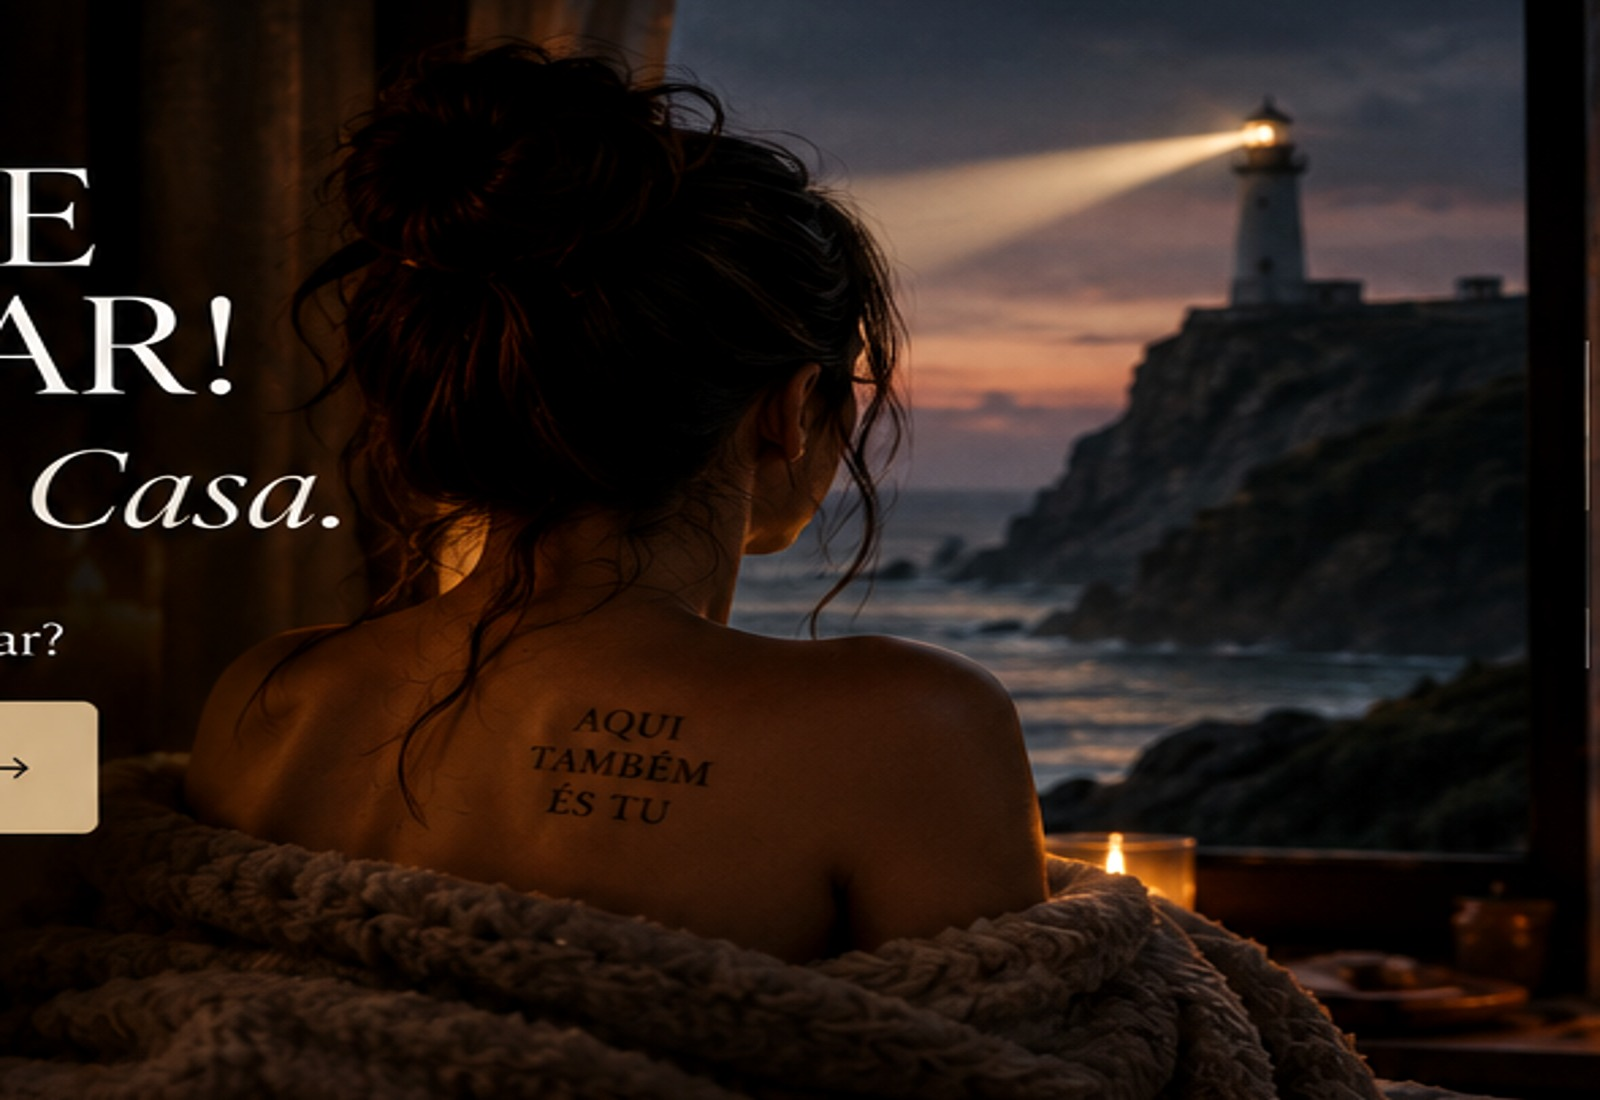
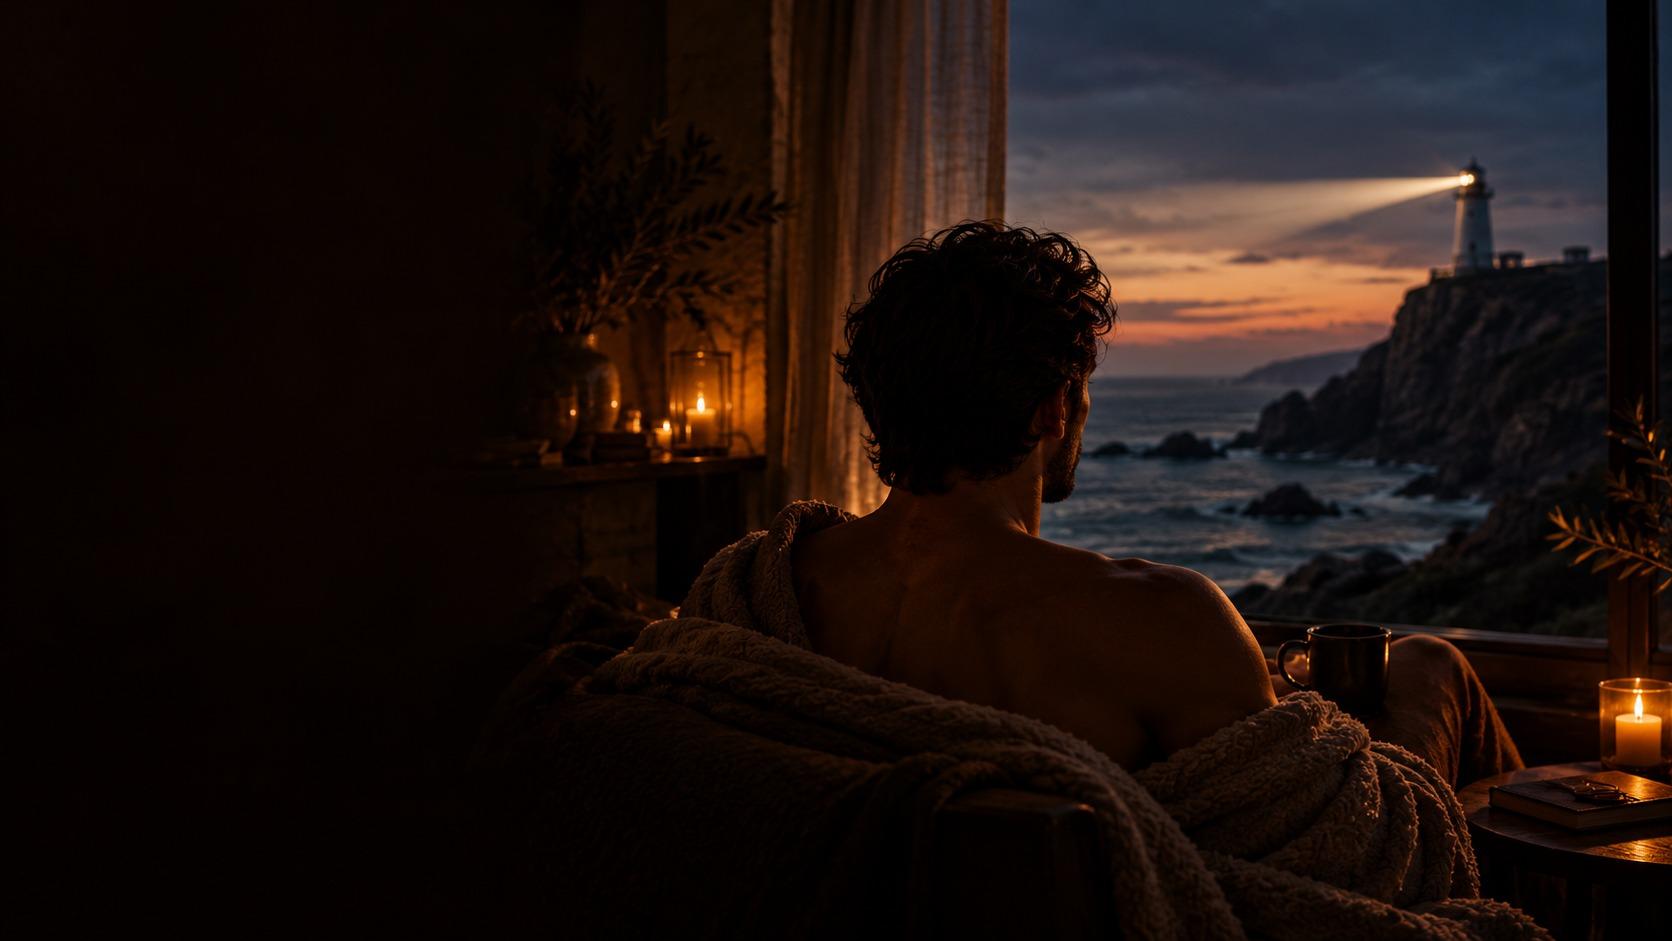
Add files via upload

diff --git a/styles.css b/styles.css
@@ -1542,70 +1542,121 @@ ul, ol {
   .transformacoes,.explorar,.joao,.profissionais,.fecho { padding-top: 5.5rem; padding-bottom: 5.5rem; }
 }
 
+
 /* ==========================================================
-   MAISON JF® — correção de sobreposição de imagens · 08/09/2026
+   MAISON JF® — acabamento final do hero e profissionais
    ========================================================== */
 
-/* HERO: a fotografia original contém lettering na margem esquerda.
-   Mostramos apenas a zona limpa (mulher + farol) e deixamos a área
-   esquerda escura para o texto HTML real respirar. */
+/* HERO — fotografia limpa, sem texto incorporado.
+   A zona esquerda fica reservada ao lettering HTML. */
 .hero__bg-image {
   background-color: #080808;
   background-image:
-    linear-gradient(90deg, #080808 0%, rgba(8,8,8,.96) 23%, rgba(8,8,8,.56) 46%, rgba(8,8,8,.12) 70%, rgba(8,8,8,.18) 100%),
+    linear-gradient(90deg,
+      rgba(8,8,8,.97) 0%,
+      rgba(8,8,8,.88) 24%,
+      rgba(8,8,8,.50) 43%,
+      rgba(8,8,8,.12) 67%,
+      rgba(8,8,8,.10) 100%),
     url('hero.jpg');
-  background-repeat: no-repeat, no-repeat;
-  background-size: 100% 100%, auto 100%;
-  background-position: center, right center;
-  filter: saturate(.82) contrast(1.04) brightness(.86);
+  background-repeat: no-repeat;
+  background-size: cover;
+  background-position: center;
+  filter: saturate(.88) contrast(1.03) brightness(.83);
 }
 
-/* O farol da fotografia já tem o seu próprio feixe. */
+/* A fotografia já inclui o farol; não duplicar o feixe em CSS. */
 .hero__beam { display: none; }
 
-/* Mantém o headline dentro da zona segura no desktop. */
+/* Lettering editorial: grande, mas controlado. */
 @media (min-width: 769px) {
-  .hero__content { max-width: 1440px; }
-  .hero__title { max-width: 52rem; }
-  .hero__title--primary { font-size: clamp(4.8rem, 8.2vw, 7.6rem); }
-  .hero__title--secondary { font-size: clamp(2.6rem, 4.4vw, 4rem); }
+  .hero__content {
+    max-width: 1440px;
+    padding-left: clamp(4.5rem, 5vw, 6rem);
+    padding-right: clamp(3rem, 5vw, 6rem);
+  }
+
+  .hero__title {
+    max-width: 46rem;
+    line-height: .90;
+  }
+
+  .hero__title--primary {
+    font-size: clamp(4.4rem, 6.8vw, 6.9rem);
+    letter-spacing: -.025em;
+  }
+
+  .hero__title--secondary {
+    font-size: clamp(2.35rem, 3.6vw, 3.65rem);
+    margin-top: .9rem;
+  }
+
+  .hero__question {
+    margin-top: 2.8rem;
+  }
 }
 
-/* FAROL: retirar a imagem “ambient”, que era uma captura do próprio
-   Farol e por isso criava cartões e textos fantasma por trás. */
+/* FAROL — sem fotografia com cartões/texto incorporados. */
 .farol {
   background-image:
-    radial-gradient(circle at 50% 20%, rgba(196,162,101,.055), transparent 34%),
+    radial-gradient(circle at 50% 18%, rgba(196,162,101,.055), transparent 34%),
     linear-gradient(180deg, #0b0a09 0%, #080808 45%, #0a0908 100%);
   background-size: auto;
   background-position: center;
 }
 
-/* PROFISSIONAIS: usar uma fotografia de ambiente verdadeira em vez
-   da captura do próprio site. O enquadramento corta o ícone embutido
-   na margem esquerda da imagem original. */
+/* PROFISSIONAIS — imagem editorial de espaço, sem pessoas. */
 .profissionais__visual-photo {
   background-image:
-    linear-gradient(rgba(10,8,6,.16), rgba(10,8,6,.34)),
-    url('espaco.jpg');
-  background-size: cover, 132% auto;
+    linear-gradient(rgba(10,8,6,.10), rgba(10,8,6,.28)),
+    url('profissionais.jpg');
+  background-size: cover;
   background-repeat: no-repeat;
-  background-position: center, 78% center;
+  background-position: center;
 }
 
-/* Um pouco menos de vazio nas secções finais, sem voltar a apertar o site. */
-.fecho { padding-top: clamp(6rem,8vw,8rem); padding-bottom: clamp(6rem,8vw,8rem); }
+/* Selo institucional mais discreto: credibilidade sem parecer rodapé jurídico. */
+.profissionais__credibilidade {
+  margin: 1.5rem 0 2rem;
+  padding-top: 1rem;
+  border-top: 1px solid rgba(196,162,101,.24);
+}
+.profissionais__credibilidade span {
+  font-size: 1.05rem;
+}
+.profissionais__credibilidade strong {
+  font-size: .62rem;
+  letter-spacing: .12em;
+  opacity: .86;
+}
+
+/* Menos vazio nas secções finais. */
+.fecho {
+  padding-top: clamp(5.5rem,7vw,7rem);
+  padding-bottom: clamp(5.5rem,7vw,7rem);
+}
 
 @media (max-width: 768px) {
   .hero__bg-image {
     background-image:
-      linear-gradient(180deg, rgba(8,8,8,.18) 0%, rgba(8,8,8,.26) 44%, rgba(8,8,8,.88) 100%),
+      linear-gradient(180deg,
+        rgba(8,8,8,.14) 0%,
+        rgba(8,8,8,.30) 46%,
+        rgba(8,8,8,.90) 100%),
       url('hero.jpg');
-    background-size: 100% 100%, auto 100%;
-    background-position: center, 73% center;
+    background-size: cover;
+    background-position: 63% center;
   }
+
+  .hero__title--primary {
+    font-size: clamp(3rem, 15vw, 4.9rem);
+  }
+
+  .hero__title--secondary {
+    font-size: clamp(2rem, 9vw, 3rem);
+  }
+
   .profissionais__visual-photo {
-    background-size: cover, 145% auto;
-    background-position: center, 78% center;
+    background-position: center;
   }
 }
